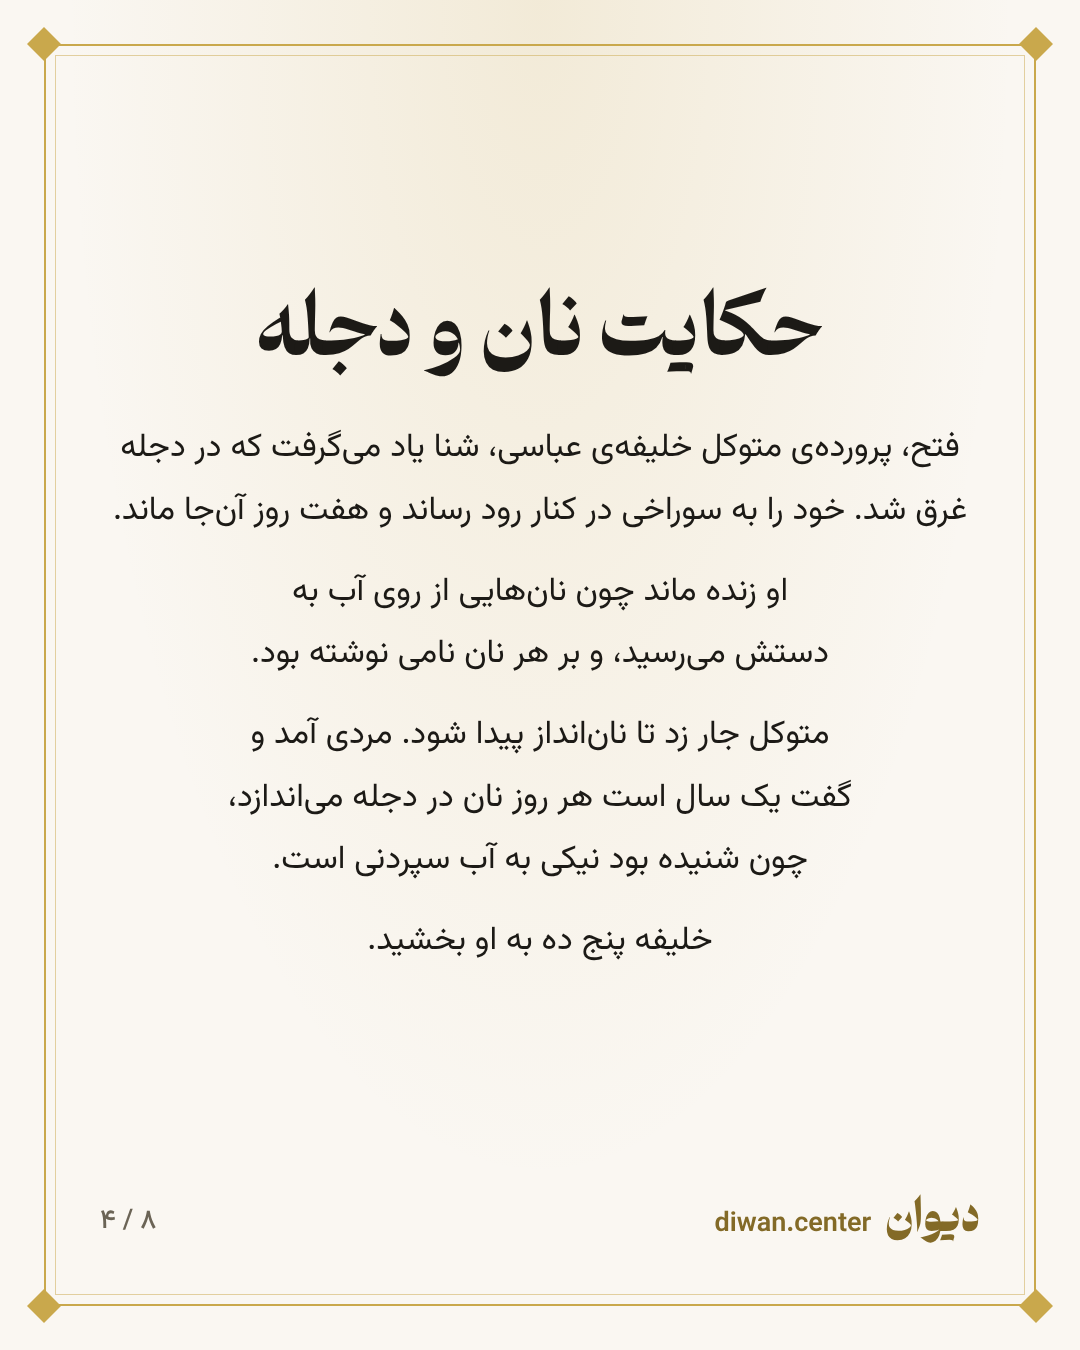
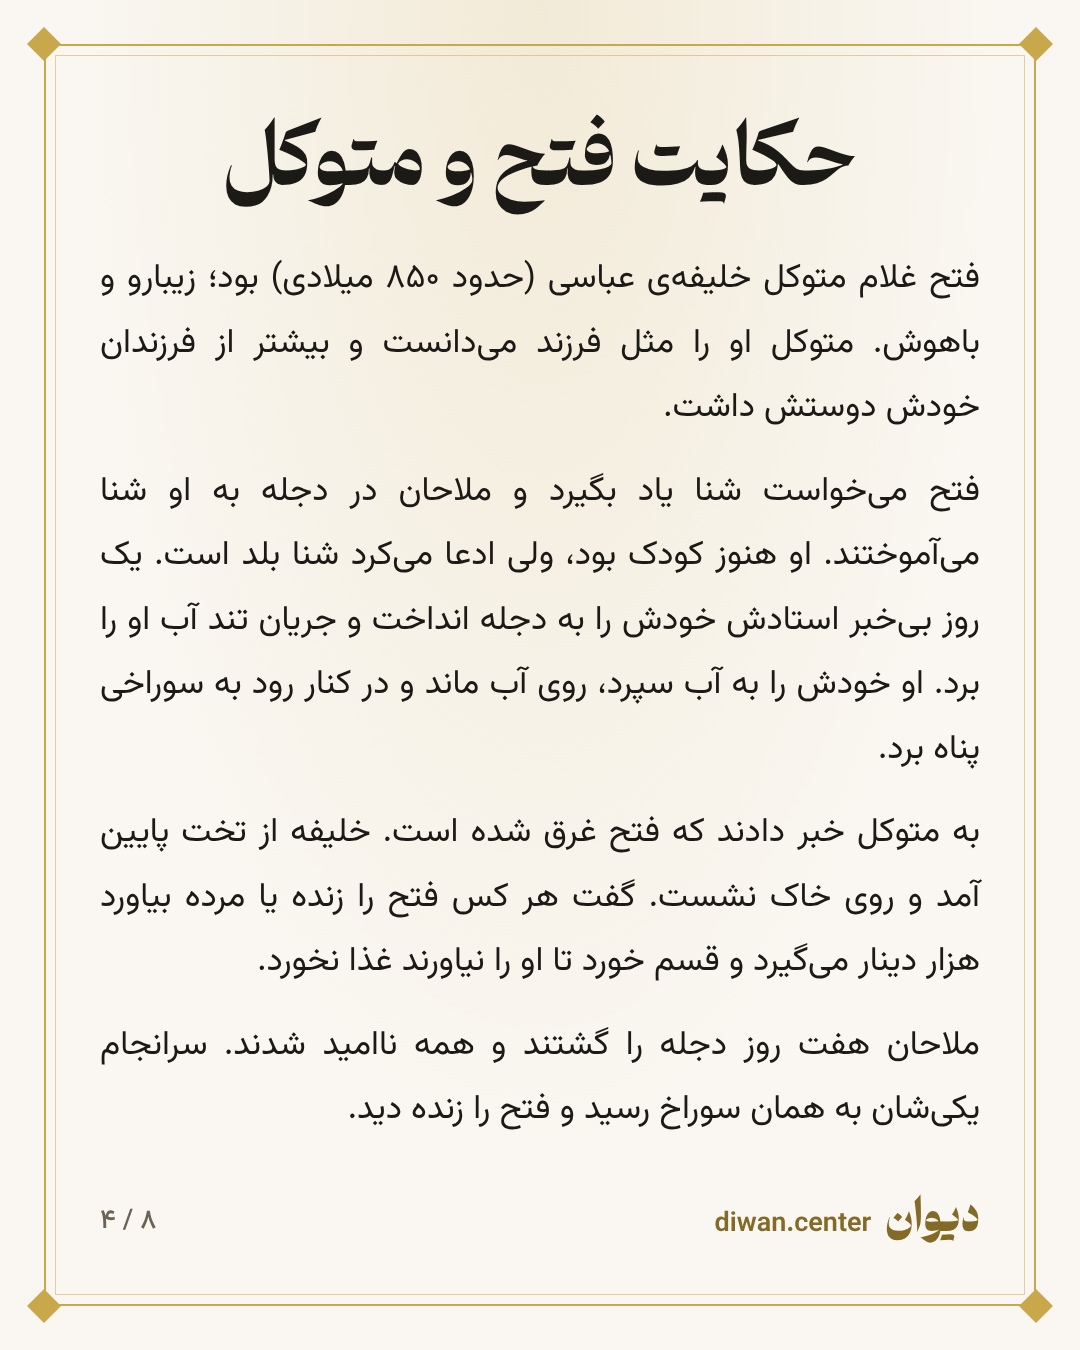
post21: revisions (slides 1-7 per feedback), story wording
Claude-Session: https://claude.ai/code/session_01KbXFhZ5gVHvAJQxmARukFF

diff --git a/tools/dejleh/build.py b/tools/dejleh/build.py
@@ -8,41 +8,44 @@ N=5
 K='پرسه در جهان کلمه'
 def V(*cp): return [list(c) for c in cp]
 S=[
- dict(k='cover',kicker=K,title='نیکی کن و<br>در دجله انداز',sub='تو نیکویی کن و در دجله انداز<br>که ایزد در بیابانت دهد باز'),
- dict(k='blocks',title='بیت از کیست؟',fb=36,blocks=[
-   ('p','این بیت از سعدی است، در مثنویات بخش مواعظ. حکایت پادشاهی است که از اسب میافتد و طبیبی درمانش میکند، اما حق او را ناسپاسی میدهد. سعدی در پایان پند میدهد:'),
-   ('v',V(('تو نیکویی کن و در <u class="du">دجله</u> انداز','که ایزد در بیابانت دهد باز'))),
-   ('c','سعدی، مواعظ، مثنویات'),
-   ('p','یعنی نیکی کن و چشمداشتی نداشته باش. خدا آن را روزی که در بیابان به آن نیاز داری، به تو برمیگرداند.'),
+ dict(k='cover',kicker=K,title='تو نیکی میکن و<br>در دجله انداز',sub=''),
+ dict(k='blocks',title='بیت از کیست؟',fb=31,blocks=[
+   ('p','این بیت از سعدی است، در مثنویات بخش مواعظ. حکایتش دربارهی پادشاهی است که از اسب میافتد و گردنش خشک میشود. طبیبی درمانش میکند، اما پادشاه در حق او ناسپاسی میکند. سعدی در پایان پند میدهد:'),
+   ('v',V(('تو <u class="du">نیکویی</u> کن و در <u class="du">دجله</u> انداز','که ایزد در بیابانت دهد باز'))),
+   ('c','سعدی، مواعظ، مثنویات (کلیات، چاپ فروغی)'),
+   ('p','یعنی نیکی کن و چشمداشتی نداشته باش. خداوند آن را در شرایط دشوار به تو برمیگرداند.'),
+   ('q','«تو <u class="du">نیکی</u> میکن و در <u class="du">دجله</u> انداز»'),
+   ('p','بیت اصلی «نیکویی کن» است و صورت امروزی ما، «نیکی میکن»، کمی با آن فرق دارد. معنا همان است: نیکی را بکن و حسابش را نگه ندار.'),
  ]),
- dict(k='blocks',title='پیش از سعدی',fb=36,blocks=[
-   ('p','سعدی این را از خود نساخته. بیش از یک قرن پیش از او، عنصرالمعالی در قابوسنامه همین عبارت را در حکایتی آورده است. مرد حکایت میگوید:'),
-   ('q','«شنوده بودم که <u class="du">نیکی</u> کن و <u class="du">به آب</u> انداز، که روزی بر دهد»'),
-   ('c','قابوسنامه، قرن پنجم، باب ششم'),
-   ('p','«شنوده بودم» یعنی آن زمان هم آن را بهعنوان یک گفتهی رایج میدانستند.'),
+ dict(k='blocks',title='به جز سعدی',fb=35,jus=1,blocks=[
+   ('p','فقط سعدی نیست که از این تمثیل استفاده کرده. بیش از یک قرن پیش از او، عنصرالمعالی در قابوسنامه حکایتی را نقل میکند که در آن مردی نانوا را به پیشگاه خلیفه میآورند:'),
+   ('q','«روز دیگر مردی بیامد و گفت منم آن کس، متوکل گفت: بچه نشان؟ … محمد بن الحسین گفت: یک سالست. … شنوده بودم که <u class="du">نیکی</u> کن و <u class="du">بآب</u> انداز، که روزی بر دهد»'),
+   ('c','قابوسنامه، عنصرالمعالی، قرن پنجم، باب ششم'),
+   ('p','عنصرالمعالی این ماجرا را از بزرگان بغداد زمان خودش شنیده و «شنوده بودم» از زبان نانانداز است. پس این گفته دستکم در روایتهای بغدادی از خود او هم قدیمیتر بوده.'),
  ]),
- dict(k='blocks',title='حکایت نان و دجله',fb=33,blocks=[
-   ('p','فتح، پروردهی متوکل خلیفهی عباسی، شنا یاد میگرفت که در دجله غرق شد. خود را به سوراخی در کنار رود رساند و هفت روز آنجا ماند.'),
-   ('p','او زنده ماند چون نانهایی از روی آب به دستش میرسید، و بر هر نان نامی نوشته بود.'),
-   ('p','متوکل جار زد تا نانانداز پیدا شود. مردی آمد و گفت یک سال است هر روز نان در دجله میاندازد، چون شنیده بود نیکی به آب سپردنی است.'),
-   ('p','خلیفه پنج ده به او بخشید.'),
+ dict(k='blocks',title='حکایت فتح و متوکل',fb=34,jus=1,blocks=[
+   ('p','فتح غلام متوکل خلیفهی عباسی (حدود ۸۵۰ میلادی) بود؛ زیبارو و باهوش. متوکل او را مثل فرزند میدانست و بیشتر از فرزندان خودش دوستش داشت.'),
+   ('p','فتح میخواست شنا یاد بگیرد و ملاحان در دجله به او شنا میآموختند. او هنوز کودک بود، ولی ادعا میکرد شنا بلد است. یک روز بیخبر استادش خودش را به دجله انداخت و جریان تند آب او را برد. او خودش را به آب سپرد، روی آب ماند و در کنار رود به سوراخی پناه برد.'),
+   ('p','به متوکل خبر دادند که فتح غرق شده است. خلیفه از تخت پایین آمد و روی خاک نشست. گفت هر کس فتح را زنده یا مرده بیاورد هزار دینار میگیرد و قسم خورد تا او را نیاورند غذا نخورد.'),
+   ('p','ملاحان هفت روز دجله را گشتند و همه ناامید شدند. سرانجام یکیشان به همان سوراخ رسید و فتح را زنده دید.'),
  ]),
- dict(k='blocks',title='نان بر آب',fb=36,blocks=[
-   ('p','همین تصویر در کتاب جامعهی عهد عتیق هم هست (فصل ۱۱، آیهی ۱):'),
+ dict(k='blocks',title='نانهای روی آب',fb=34,jus=1,blocks=[
+   ('p','ملاح به متوکل مژده داد و پنج هزار دینار گرفت. خلیفه نیمی از گنجینهاش را هم میان درویشان بخش کرد. به فتح که هفت روز بیخوراک مانده بود، گفتند غذا بیاورند.'),
+   ('p','فتح گفت سیر است. هر روز بیست قرص نان روی آب دجله میآمد و او دو سه تایش را میگرفت. بر هر نان نوشته بود «محمد بن الحسین الاسکاف».'),
+   ('p','متوکل جار زد که صاحب این نانها بیاید. فردا مردی آمد و گفت منم؛ یک سال بود هر روز نان به دجله میانداخت، چون شنیده بود نیکی را باید به آب سپرد. متوکل پنج ده ملک در بغداد به او بخشید.'),
+   ('p','عنصرالمعالی میگوید در سفر حج، در زمان خلیفهی القائم، فرزندان آن مرد را در بغداد دیده و این داستان را از بزرگان شهر شنیده است.'),
+ ]),
+ dict(k='blocks',title='نان بر آب',fb=33,jus=1,blocks=[
+   ('p','همین تصویر در کتاب جامعهی عهد عتیق هم هست. سنت یهودی آن را به سلیمان (قرن دهم پیش از میلاد) نسبت میدهد، اما پژوهشگران معمولاً تألیفش را به نیمهی دوم قرن سوم پیش از میلاد میبرند. در فصل ۱۱ میگوید:'),
    ('q','«نان خود را بر روی آبها بینداز، زیرا بعد از روزهای بسیار آن را خواهی یافت»'),
-   ('c','کتاب جامعه، عهد عتیق'),
-   ('p','نمیتوان گفت این دو به هم ربط مستقیم دارند، اما تصویرشان یکی است: نان بر آب.'),
+   ('c','کتاب جامعه ۱۱:۱'),
+   ('p','آن را یا بخشش بیچشمداشت معنا کردهاند یا خطر کردن در تجارت دریایی، که کالا را به آب میسپارد و ماهها بعد سودش را میگیرد.'),
+   ('p','در پندنامهی مصری عنخشاشنقی (پاپیروس دورهی بطلمیوسی) نیز آمده که نیکی را به آب بینداز تا وقتی خشک شد پیدایش کنی. پیوند مستقیم اینها با سعدی و قابوسنامه معلوم نیست.'),
  ]),
  dict(k='blocks',title='از «آب» تا «دجله»',fb=34,blocks=[
    ('p','در قابوسنامه عبارت فقط «به آب انداز» است و دجله را خودِ حکایت میآورد. در بیت سعدی، نام رود در متن خود ضربالمثل نشست.'),
    ('p','دجله رود بغداد بود، پایتخت خلافت عباسی. سعدی در جوانی در مدرسهی نظامیهی همین شهر درس خوانده بود.'),
    ('p','پاداش هم تغییر میکند. در قابوسنامه «روزی بر دهد» است و در بیت سعدی «در بیابانت دهد باز»، یعنی درست در سختترین جا.'),
- ]),
- dict(k='blocks',title='نیکیای که گم نمیشود',fb=36,blocks=[
-   ('p','در حکایت، نانی که بیچشمداشت به آب رفت، هفت روز جان کسی را نگه داشت.'),
-   ('p','نیکیکننده خبر نداشت که نانش به چه کسی میرسد، و پاداشش را از کسی گرفت که منتظرش نبود.'),
-   ('q','«تو نیکی میکن و در دجله انداز»'),
-   ('p','امروز «میکن» میگوییم، اما معنایش همان است: نیکی را بکن و حسابش را نگه ندار.'),
  ]),
  dict(k='big',text='داستانت را در دیوان<br>منتشر کن؛ راهش را<br>خودش پیدا میکند.<br><span class="lt" style="display:block;font-size:.6em;margin-top:.4em;text-align:center;color:#836a27">diwan.center</span>'),
 ]
@@ -118,7 +121,7 @@ h1,h2{font-family:Doran,Vazirmatn,sans-serif;font-weight:800;line-height:1.3;tex
 .cover .ct{position:absolute;left:0;right:0;bottom:0;z-index:2;padding:var(--cpad);text-align:center;color:#faf7f2;display:flex;flex-direction:column;gap:18px;align-items:center}
 .cover h1{color:#faf7f2;font-size:var(--fct)}
 .cover .sub{font-size:var(--fb);color:#f1e7c9;line-height:1.8}
-.bp,.bq,.bn,h2{text-wrap:balance}.ra .bp{text-align:right}.ra .bq{text-align:right;text-align-last:right}.ra{align-items:stretch!important}.bl{display:flex;flex-direction:column;gap:calc(var(--fb)*.55);width:100%;align-items:center}
+.bp,.bq,.bn,h2{text-wrap:balance}.jus .bp{text-align:justify;text-wrap:pretty}.ra .bp{text-align:right}.ra .bq{text-align:right;text-align-last:right}.ra{align-items:stretch!important}.bl{display:flex;flex-direction:column;gap:calc(var(--fb)*.55);width:100%;align-items:center}
 .bp{font-size:var(--fb);line-height:1.9;text-align:center;width:100%}
 .bn{font-size:calc(var(--fb)*.85);line-height:1.8;color:#6b6456;text-align:center}
 .bq{font-size:calc(var(--fb)*var(--bqs,.92));line-height:1.95;text-align:center;width:100%;padding:0 10px;border-top:1px solid #d7c88f;border-bottom:1px solid #d7c88f;padding-top:.35em;padding-bottom:.35em}
@@ -168,7 +171,7 @@ def html(i,s,plat):
             elif t=='c': out.append(f'<div class="vcap">{x}</div>')
             elif t=='q': out.append(f'<div class="bq">{kw(x)}</div>')
             elif t=='v': out.append('<div class="bv"'+(' style="display:grid;grid-template-columns:1fr 1fr;column-gap:4%"' if (s.get('cols') and plat in ('tg','x')) else '')+'>'+''.join(('<div class="cpl one">'+''.join('<span class="hm">'+kw(h)+'</span>' for h in c)+'</div>' if s.get('one') else '<div class="cpl">'+'<br>'.join(kw(h) for h in c)+'</div>') for c in x)+'</div>')
-        inner=f'<h2>{s["title"]}</h2><div class="bl{' ra' if s.get('ra') else ''}" style="{('--bqs:1;--cps:%s;'%s.get('cps',1)) if s.get('uni') else ''}--fb:{round(s.get("fb",38)*{"ig":1,"st":1.1,"tg":.6,"x":.72}[plat])}px">'+''.join(out)+'</div>'
+        inner=f'<h2>{s["title"]}</h2><div class="bl{' ra' if s.get('ra') else ''}{' jus' if s.get('jus') else ''}" style="{('--bqs:1;--cps:%s;'%s.get('cps',1)) if s.get('uni') else ''}--fb:{round(s.get("fb",38)*{"ig":1,"st":1.1,"tg":.6,"x":.72}[plat])}px">'+''.join(out)+'</div>'
     elif k=='big':
         inner=f'<div class="final" style="font-size:calc(var(--ft)*1.25)">{s["text"]}</div>'
     elif k=='text':
